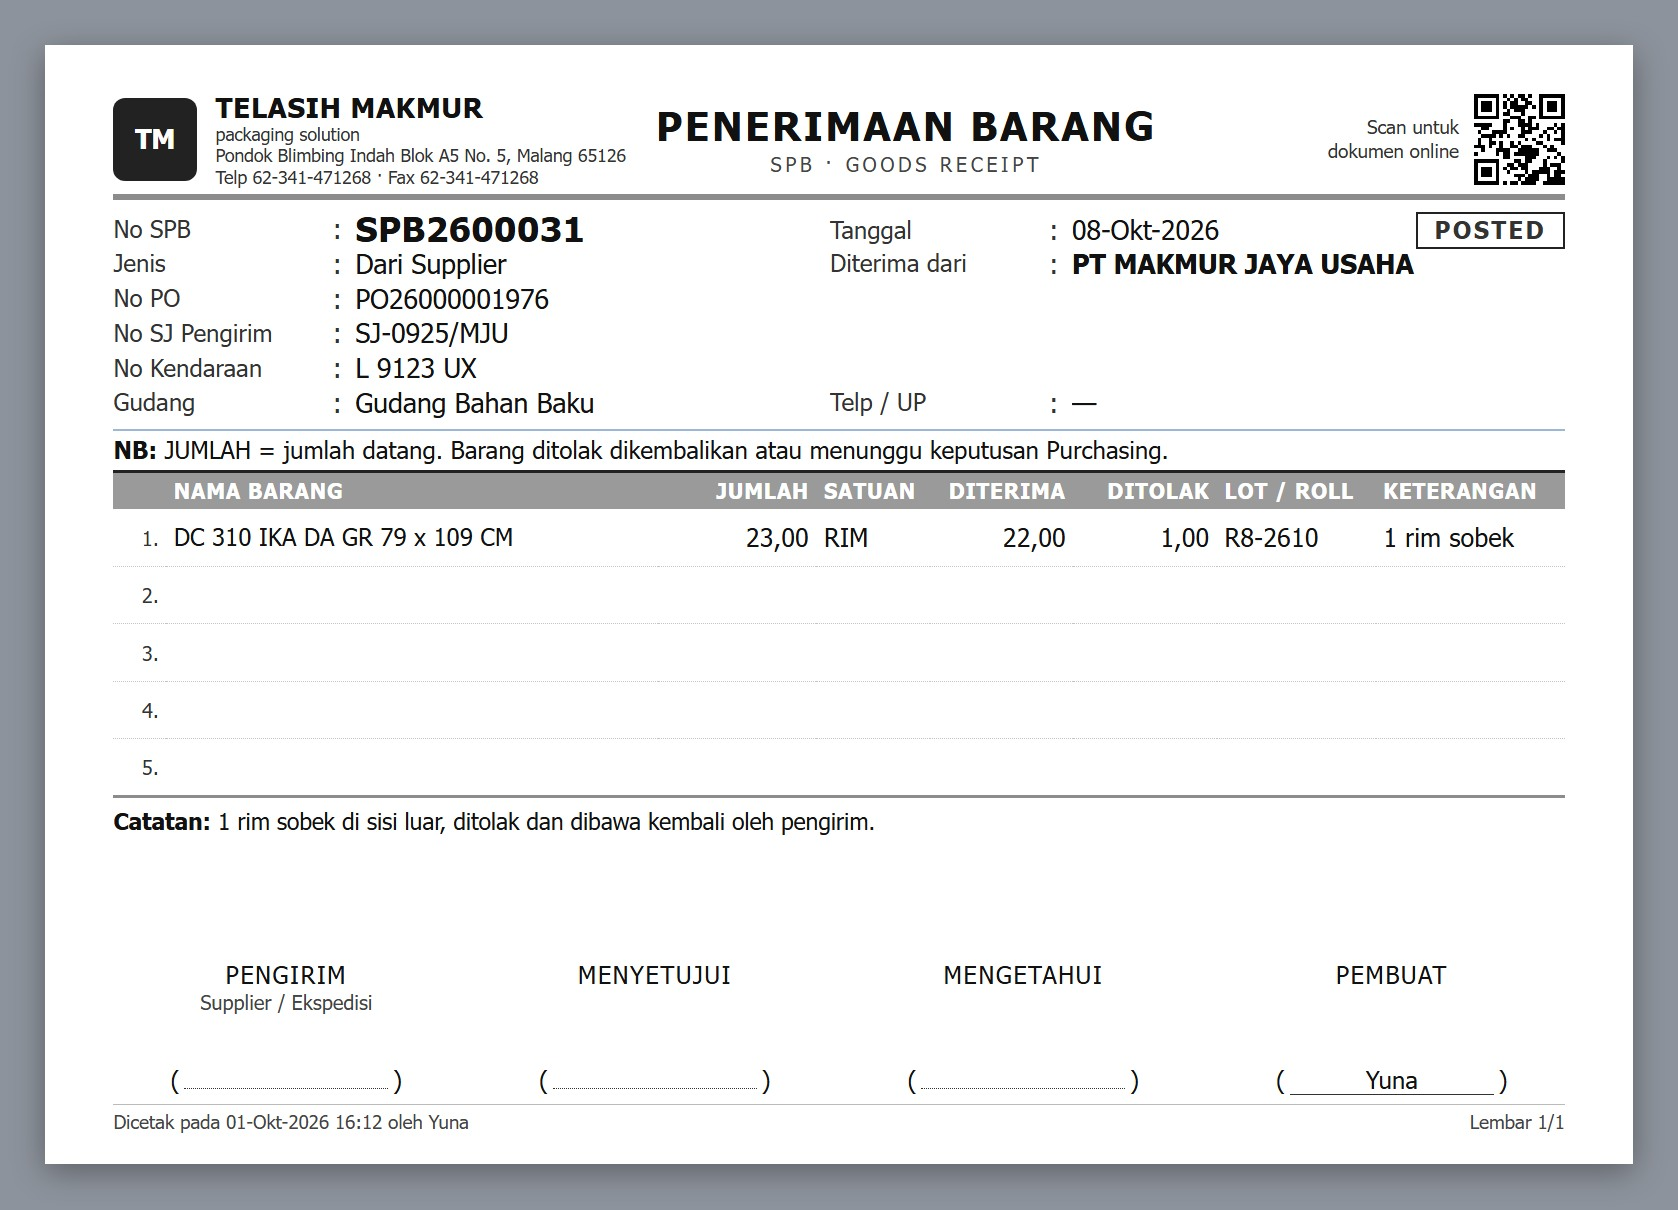
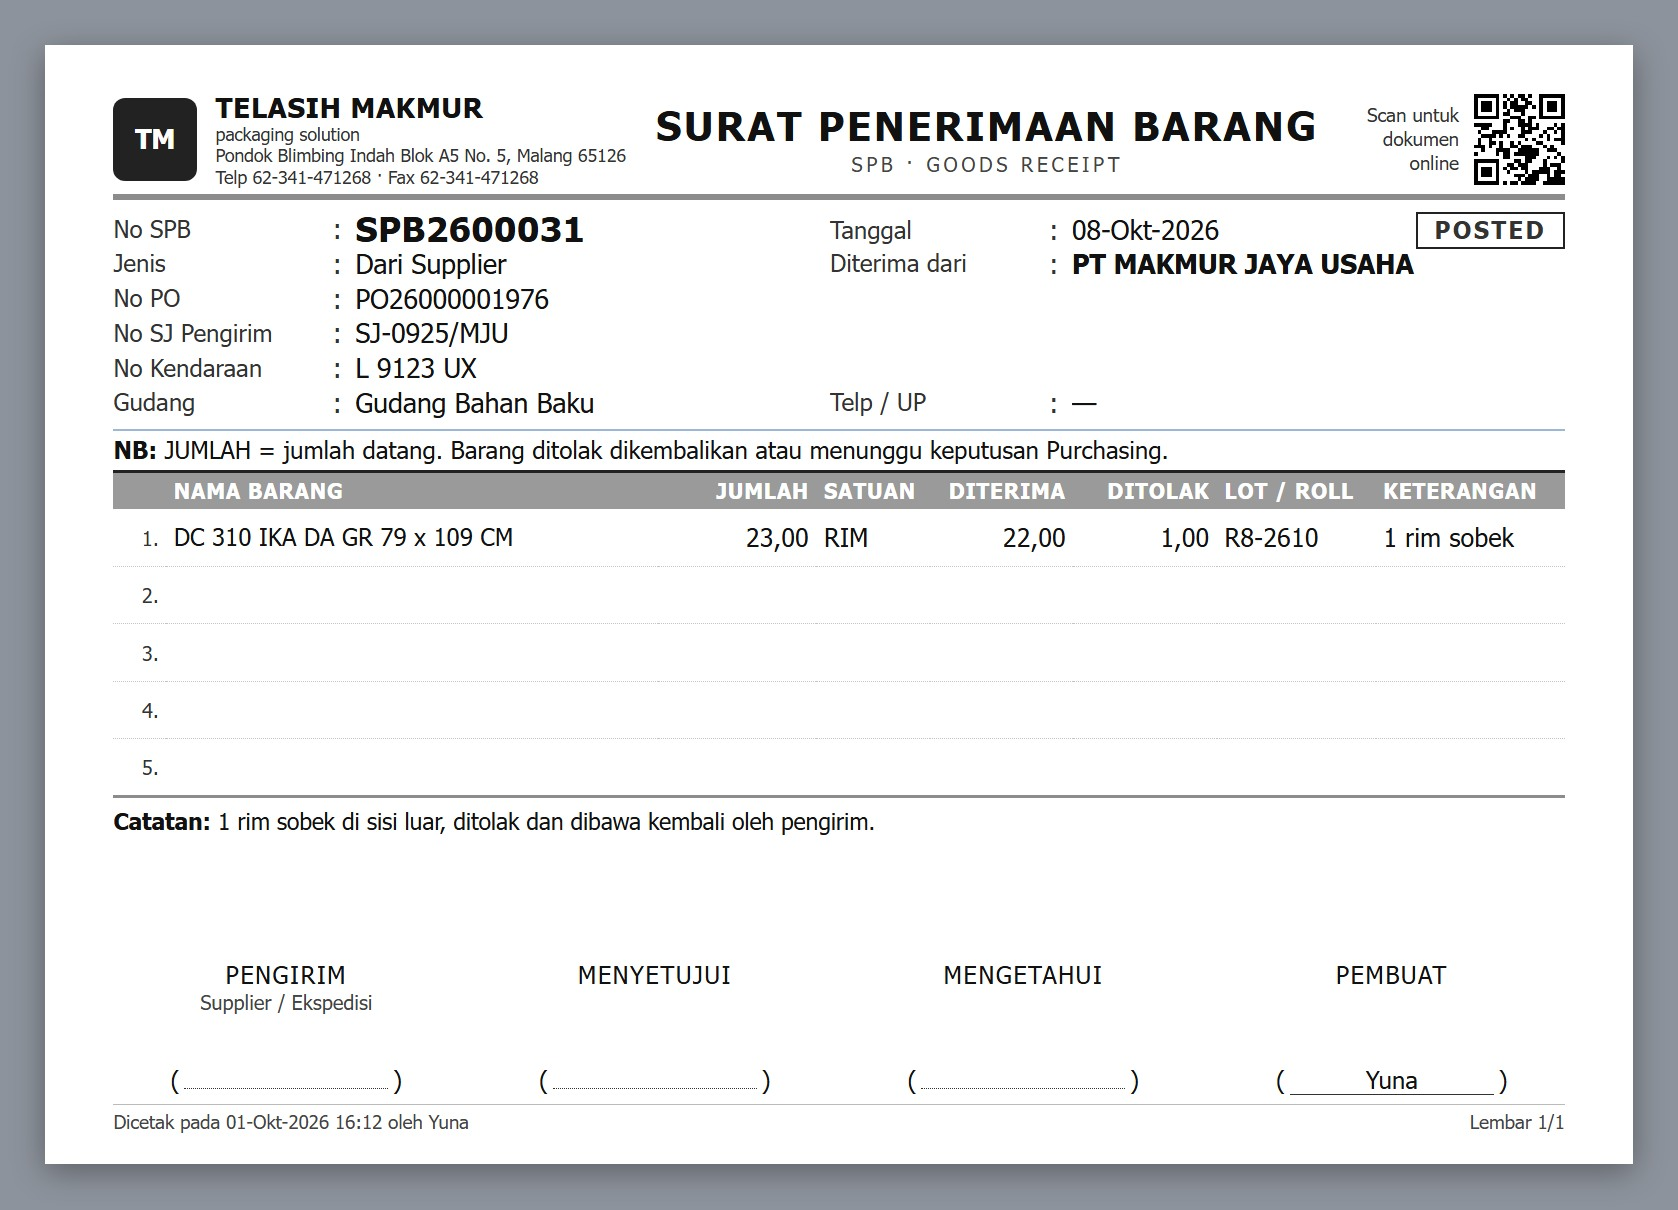
SPB print title: Surat Penerimaan Barang (user request; format stays approved)

Changed region(s): [[0.3719, 0.0917, 0.8677, 0.1529]]

diff --git a/docs/mockups/print_doc/documents.js b/docs/mockups/print_doc/documents.js
@@ -293,7 +293,7 @@ PrintDoc.register(class PurchaseQuotation extends PrintDoc {
 // Layar v2: purchase-receive (SPB). Dokumen gudang, tanpa harga.
 PrintDoc.register(class GoodsReceipt extends PrintDoc {
     static approved = '2026-10-02';
-    static title = 'PENERIMAAN BARANG';
+    static title = 'SURAT PENERIMAAN BARANG';   // nama dokumen = SPB, Surat Penerimaan Barang (user 2026-10-02)
     static subtitle = 'SPB &middot; Goods Receipt';
     static numberLabel = 'No SPB';
     static refs = [

diff --git a/app/Support/V2/Print/GoodsReceiptPrint.php b/app/Support/V2/Print/GoodsReceiptPrint.php
@@ -6,7 +6,7 @@ use App\Models\Pur\PvReceipt;
 use Devlib\PrintDoc\Document;
 use Illuminate\Support\Facades\DB;
 
-// Penerimaan Barang / SPB (format A, user 2026-10-02): dokumen gudang, TANPA harga, untuk ketiga jenis penerimaan (dari supplier, kembali
+// Surat Penerimaan Barang / SPB (format A, user 2026-10-02; judul "Surat Penerimaan Barang" atas permintaan user): dokumen gudang, TANPA harga, untuk ketiga jenis penerimaan (dari supplier, kembali
 // dari subkon, bahan dari customer). Qty = jumlah datang; Diterima / Ditolak = hasil QC. Sumber: tm2pur.pv_receipt + pv_line.
 final class GoodsReceiptPrint extends Document
 {

diff --git a/app/Support/V2/Print/Labels.php b/app/Support/V2/Print/Labels.php
@@ -125,7 +125,7 @@ final class Labels
         'Lead (days)' => 'Lead (hari)',
         'days' => 'hari',
         // Penerimaan Barang (SPB)
-        'Goods Receipt' => 'Penerimaan Barang',
+        'Goods Receipt' => 'Surat Penerimaan Barang',
         'SPB No.' => 'No SPB',
         'PO / CO No.' => 'No PO / CO',
         'Sender Delivery Note No.' => 'No SJ Pengirim',

diff --git a/docs/globaluserrules.md b/docs/globaluserrules.md
@@ -441,6 +441,7 @@
 | 2026-10-02 | C.24: mockup tahap 3 (**belum A, belum dipasang ke aplikasi**) untuk entry yang belum punya cetakan: Bukti Barang Masuk, Bukti Barang Keluar, Retur dari Produksi, Penyesuaian Stok / Stock Opname, Retur Pembelian, Work Order, Jurnal, Tagihan Supplier, Permohonan Cuti / Izin, Permohonan Tenaga Kerja; plus Tagihan Uang Muka (varian dengan kolom Persen; di aplikasi saat ini memakai format Sales Invoice). File `docs/mockups/print_doc/<nama>_a5.jpg`. Belum dirancang: Offering Letter (bentuk surat), slip gaji. |
 | 2026-10-02 | C.24 (koreksi user atas mockup tahap 3): yang dicetak **bukan "Tagihan Supplier" melainkan Tanda Terima Tagihan Supplier** (satu baris = satu invoice supplier yang diserahkan; bukan bukti bayar); dokumen barang masuk bernama **SPB, Surat Penerimaan Barang**; ditambah **Tanda Terima Uang Muka** (bukti untuk customer). Semua masih mockup, belum A. |
 | 2026-10-02 | C.24 (user): **barang masuk cukup satu dokumen = SPB** (yang diterima = yang masuk gudang; mockup "Bukti Barang Masuk" dibuang); yang diperlukan **QC Inspection** barang masuk, dicetak dari SPB yang sama. **Tanda Terima Tagihan Supplier** = entry baru v2 (Finance → Transaction Flows; `tm2acc.fin_invoice_receipt` + `_line`, nomor `TTyy#####`, bukan bukti bayar, tanpa jurnal); **Tanda Terima Uang Muka** tidak punya tabel sendiri: mencetak pembayaran uang muka yang sudah tercatat (nomor = nomor voucher). Tanda terima dicetak tanpa kolom Menyetujui. Ketiganya terpasang (ddt + tm2), **belum A**. |
+| 2026-10-02 | C.24 (user: "ya ganti jadi SPB"): judul cetakan SPB = **SURAT PENERIMAAN BARANG** (dulu "Penerimaan Barang"), sub-judul tetap "SPB · Goods Receipt"; hanya judul yang berubah, format tetap A. |
 | 2026-10-02 | **A.16 diganti:** semua jenis CO boleh di-Post to Production asal Confirmed + approved; costing published tidak disyaratkan; product tanpa Inquiry mendapat WO sederhana (tanpa routing / bahan). |
 | 2026-10-02 | C.29: kerapatan grid cukup per grid lewat tombol Density (tersimpan di browser); rencana setelan per user + pintu Configuration → Grid dibatalkan, bagian "Grid (segera)" di drawer Configuration menu lama dihapus. |
 | 2026-10-02 | **E.1: Help wajib untuk setiap layar input dan laporan** (untuk apa, cara pakai, penjelasan tiap isian) — 159 topik ditulis dari kode, layar Help Center + Setup → Help Topics / Help Lines (ddt + tm2, OK user 2026-10-02), pintu Help Center di halaman F1. **E.2: keputusan Asisten AI** (offline, modular, AI tidak menghitung, jawaban sesuai level, drawer chat pribadi); rancangan menunggu persetujuan. Sales today dirinci Draft / Confirmed / Total; riwayat chat 30 / 14 / 7 hari menurut level. |
